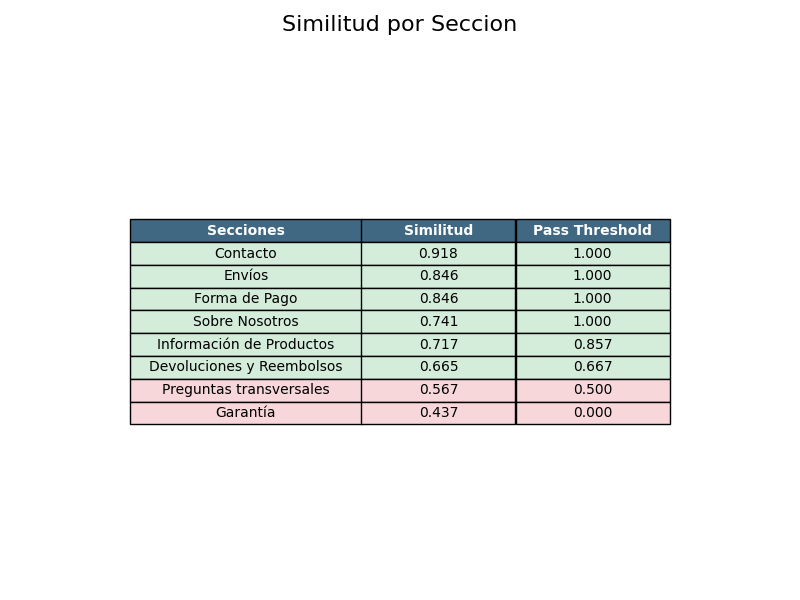
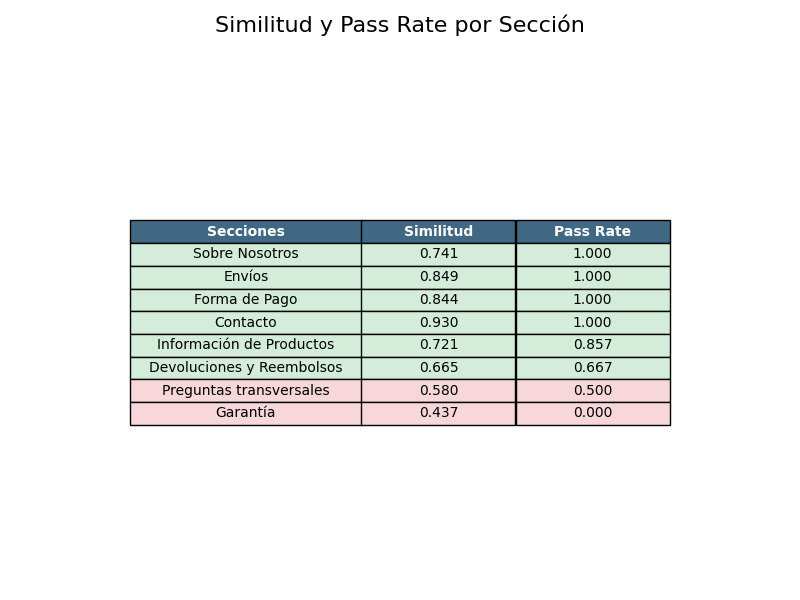
update metrics

Changed region(s): [[0.1562, 0.36, 0.8438, 0.66], [0.1562, 0.69, 0.8438, 0.72], [0.25, 0.03, 0.7188, 0.06]]

diff --git a/src/validation.py b/src/validation.py
@@ -11,13 +11,18 @@ from util.generate_response import cosine_similarity
 load_dotenv()
 
 
-metrics_path = Path("../metrics")
+base_dir = Path(__file__).parent.resolve()
+
+# Then define metrics_path relative to script location
+metrics_path = base_dir.parent / "metrics"  # ../metrics relative to src/validation.py
 
 # Configuración inicial
 validation_data = {}
 
 def load_val_data():
-    with open("../data/val.json") as f:
+    base_path = os.path.dirname(os.path.abspath(__file__))
+    val_path = os.path.join(base_path, "../data/val.json")
+    with open(val_path) as f:
         return json.load(f)
 
 def evaluate_response(ai_response, ideal_answer, threshold=0.6):
@@ -111,56 +116,56 @@ def generate_plot(aggregates):
     plt.savefig(metrics_path / "efectividad_secciones.png")
     plt.close()
 
-def generate_table(aggregates):
-    headers = ["Secciones", "Similitud", "Pass Threshold"]
+def generate_table(aggregates, threshold=0.6):
+    headers = ["Secciones", "Similitud", "Pass Rate"]
     table_data = []
 
     for section, values in aggregates.items():
         similarity = f"{values['similarity']:.3f}" 
-        pass_threshold = f"{values['pass_threshold']:.3f}"
-        table_data.append([section, similarity, pass_threshold])
+        pass_rate = f"{values['pass_threshold']:.3f}"  # pass_threshold here is the pass rate (mean of pass/fail)
+        table_data.append([section, similarity, pass_rate])
 
-
-    table_data.sort(key=lambda x: float(x[1]), reverse=True)
+    table_data.sort(key=lambda x: float(x[2]), reverse=True)  # Sort by pass rate descending
 
     fig, ax = plt.subplots(figsize=(8, 6)) 
 
     ax.axis('off')
     ax.axis('tight')
 
-
     table = ax.table(cellText=table_data,
                     colLabels=headers,
                     loc='center',
                     cellLoc='center') 
 
-
     table.auto_set_font_size(False)
     table.set_fontsize(10)
     table.scale(1.2, 1.2) 
 
+    target_pass_rate = threshold  # Define your target pass rate here
 
     for (row, col), cell in table.get_celld().items():
         if row == 0: 
             cell.set_facecolor("#406882") 
             cell.set_text_props(color='white', fontweight='bold')
-        elif float(table_data[row-1][1]) >= float(table_data[row-1][2]):
-            cell.set_facecolor("#F8D7DA")
         else:
-            cell.set_facecolor("#D4EDDA")
+            # Coloring only based on pass rate column
+            pass_rate_value = float(table_data[row-1][2])
 
+            if pass_rate_value >= target_pass_rate:
+                cell.set_facecolor("#D4EDDA")  # Green: good
+            else:
+                cell.set_facecolor("#F8D7DA")  # Red: needs improvement
 
         if col == 0:
             cell.set_width(0.3)
         elif col in [1, 2]:
             cell.set_width(0.2)
 
-
-    ax.set_title("Similitud por Seccion", fontsize=16, pad=20)
+    ax.set_title("Similitud y Pass Rate por Sección", fontsize=16, pad=20)
 
     plt.tight_layout() 
     plt.savefig(metrics_path / "tabla_efectividad_secciones.png")
-    plt.close()    
+    plt.close()
 
 
 def log_entry(data, log_file="log.txt"):

diff --git a/src/query_executor.py b/src/query_executor.py
@@ -33,7 +33,7 @@ def build_context_prompt(top_chunks, query):
 
 def process_query(query, chunks, embeddings):
     top_chunks = semantic_search(query, chunks, embeddings)
-    return generate_response(build_context_prompt(top_chunks, query), os.getenv("MODEL_RAG_3"))
+    return generate_response(build_context_prompt(top_chunks, query), os.getenv("MODEL_RAG_1"))
 
 def interactive_mode(chunks, embeddings):
     while True:
